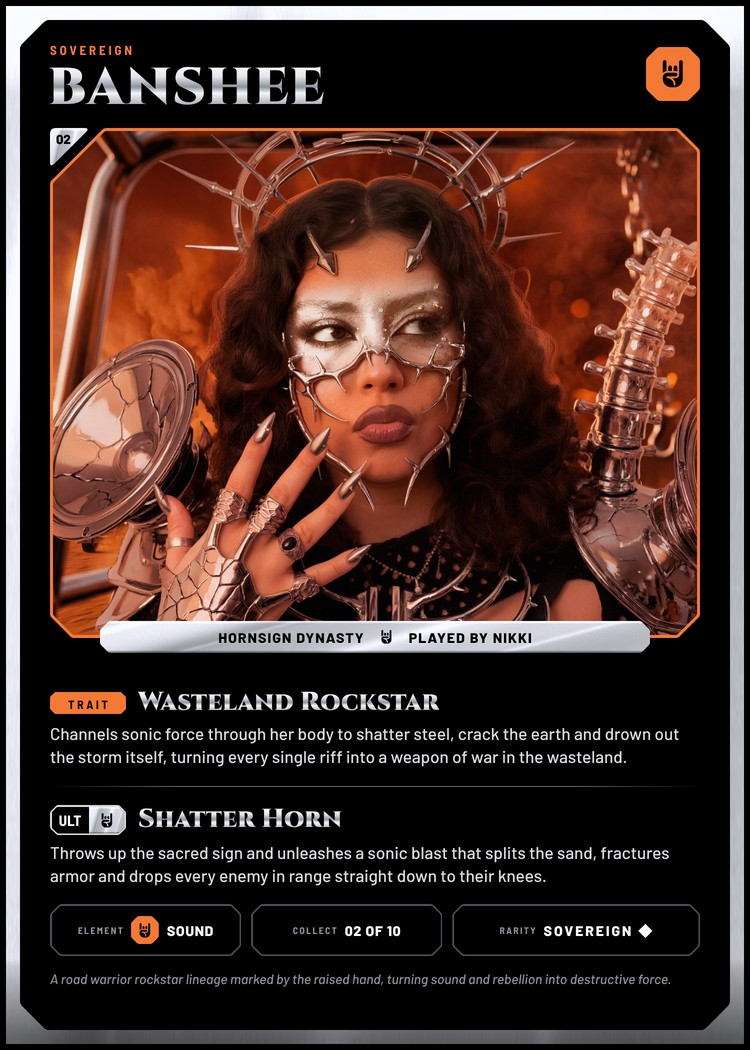
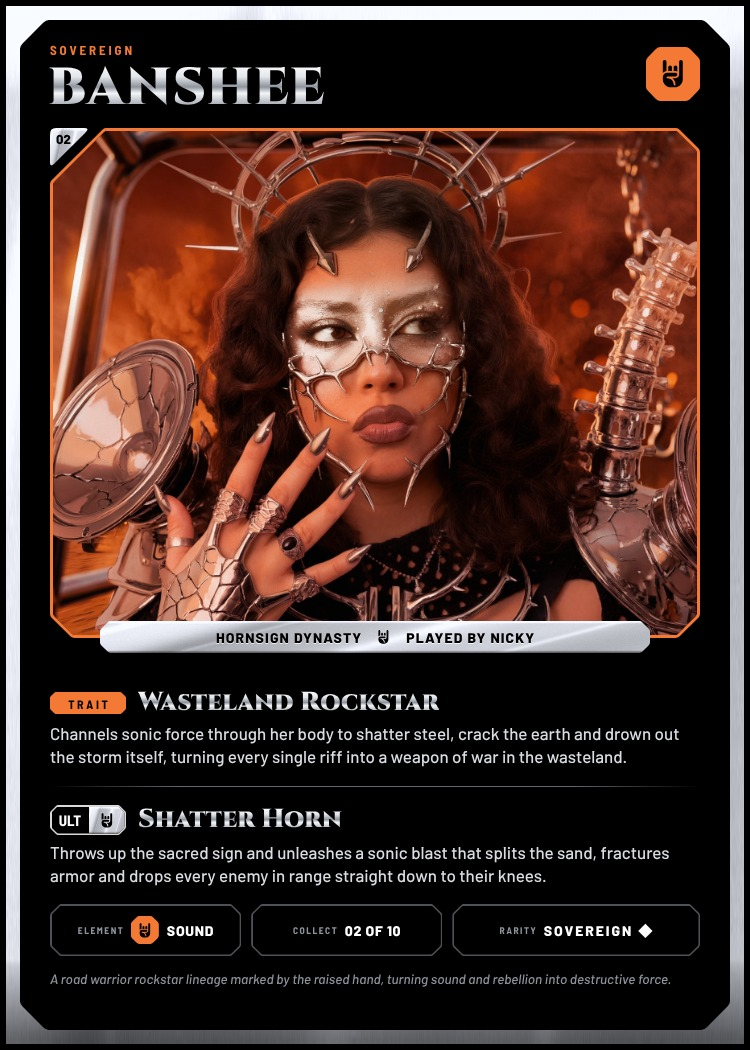
Credit fixes: Nicky (Banshee), Evaline on the Flora card
Claude-Session: https://claude.ai/code/session_01XqBoTDZG36PsB1FtNjsWYS

Changed region(s): [[0.276, 0.579, 0.5213, 0.6095], [0.552, 0.579, 0.7053, 0.6095]]

diff --git a/02/index.html b/02/index.html
@@ -2,11 +2,11 @@
 <html lang="en"><head><meta charset="utf-8">
 <meta name="viewport" content="width=device-width,initial-scale=1,maximum-scale=1,user-scalable=no,viewport-fit=cover">
 <meta name="theme-color" content="#000000">
-<title>Banshee | The Shattered Dominion AR</title><meta name="description" content="Step into Banshee's realm. Nikki as Banshee, The Shattered Dominion by MindOfDerby.">
+<title>Banshee | The Shattered Dominion AR</title><meta name="description" content="Step into Banshee's realm. Nicky as Banshee, The Shattered Dominion by MindOfDerby.">
 <base href="../">
 <link rel="icon" sizes="192x192" type="image/jpeg" href="https://static.wixstatic.com/media/04fb3c_0477b7cfbd684224b1bcdcc46684a7ea%7Emv2.jpg/v1/fill/w_192%2Ch_192%2Clg_1%2Cusm_0.66_1.00_0.01/04fb3c_0477b7cfbd684224b1bcdcc46684a7ea%7Emv2.jpg"><link rel="shortcut icon" type="image/jpeg" href="https://static.wixstatic.com/media/04fb3c_0477b7cfbd684224b1bcdcc46684a7ea%7Emv2.jpg/v1/fill/w_32%2Ch_32%2Clg_1%2Cusm_0.66_1.00_0.01/04fb3c_0477b7cfbd684224b1bcdcc46684a7ea%7Emv2.jpg"><link rel="apple-touch-icon" href="https://static.wixstatic.com/media/04fb3c_0477b7cfbd684224b1bcdcc46684a7ea%7Emv2.jpg/v1/fill/w_180%2Ch_180%2Clg_1%2Cusm_0.66_1.00_0.01/04fb3c_0477b7cfbd684224b1bcdcc46684a7ea%7Emv2.jpg">
 <meta property="og:type" content="website"><meta property="og:site_name" content="The Shattered Dominion by MindOfDerby">
-<meta property="og:title" content="Banshee | The Shattered Dominion AR"><meta property="og:description" content="Step into Banshee's realm. Nikki as Banshee, The Shattered Dominion by MindOfDerby.">
+<meta property="og:title" content="Banshee | The Shattered Dominion AR"><meta property="og:description" content="Step into Banshee's realm. Nicky as Banshee, The Shattered Dominion by MindOfDerby.">
 <meta property="og:url" content="https://mindofderby.github.io/dominion-ar/02/">
 <meta property="og:image" content="https://mindofderby.github.io/dominion-ar/og/02.jpg"><meta property="og:image:width" content="1200"><meta property="og:image:height" content="630">
 <meta name="twitter:card" content="summary_large_image"><meta name="twitter:image" content="https://mindofderby.github.io/dominion-ar/og/02.jpg">
@@ -20,7 +20,7 @@
   <div style="position: absolute; left: 150px; top: 6px; width: 186px; height: 18px; clip-path: path('M6.60 0 L179.40 0 Q181.00 0 182.13 1.13 L184.87 3.87 Q186.00 5.00 186.00 6.60 L186.00 11.40 Q186.00 13.00 184.87 14.13 L182.13 16.87 Q181.00 18.00 179.40 18.00 L6.60 18.00 Q5.00 18.00 3.87 16.87 L1.13 14.13 Q0 13.00 0 11.40 L0 6.60 Q0 5.00 1.13 3.87 L3.87 1.13 Q5.00 0 6.60 0 Z'); background: url(assets/plate-h.jpg) center / 100% 100% no-repeat; display: flex; align-items: center; justify-content: center">
     <img alt="" aria-hidden="true" src="assets/icons/S02.svg" style="position: absolute; left: 4px; top: 4.25px; width: 10px; height: 9.5px; display: block; filter: brightness(0)">
     <img alt="" aria-hidden="true" src="assets/icons/S02.svg" style="position: absolute; right: 4px; top: 4.25px; width: 10px; height: 9.5px; display: block; filter: brightness(0)">
-    <span style="font-family: 'Barlow', sans-serif; font-weight: 800; font-size: 10px; line-height: 1; letter-spacing: 0.04em; color: #000000; text-shadow: 0 0.6px 0 rgba(255,255,255,0.75); white-space: nowrap">NIKKI AS BANSHEE</span>
+    <span style="font-family: 'Barlow', sans-serif; font-weight: 800; font-size: 10px; line-height: 1; letter-spacing: 0.04em; color: #000000; text-shadow: 0 0.6px 0 rgba(255,255,255,0.75); white-space: nowrap">NICKY AS BANSHEE</span>
   </div>
   <div style="position: absolute; left: 28px; top: 14px; width: 40px; height: 58px; background: #000000; clip-path: polygon(0 0, 100% 0, 100% 100%, 50% 80%, 0 100%); display: flex; justify-content: center">
     <img alt="" src="assets/icons/S02.svg" style="width: 26px; height: 24px; margin-top: 12px; display: block">
